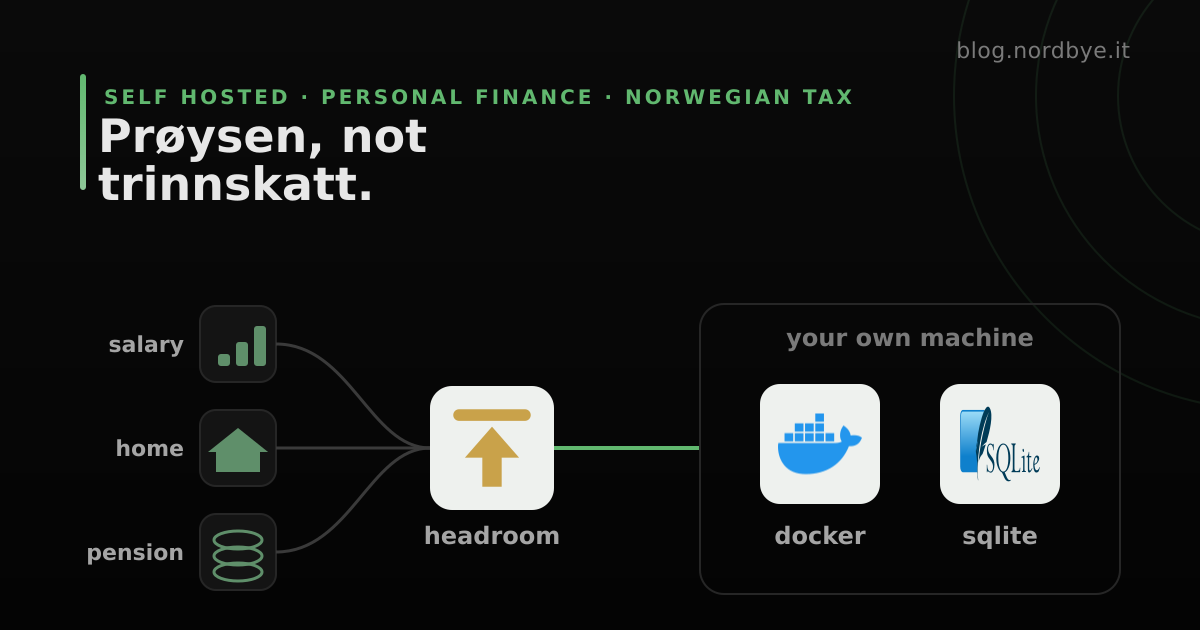
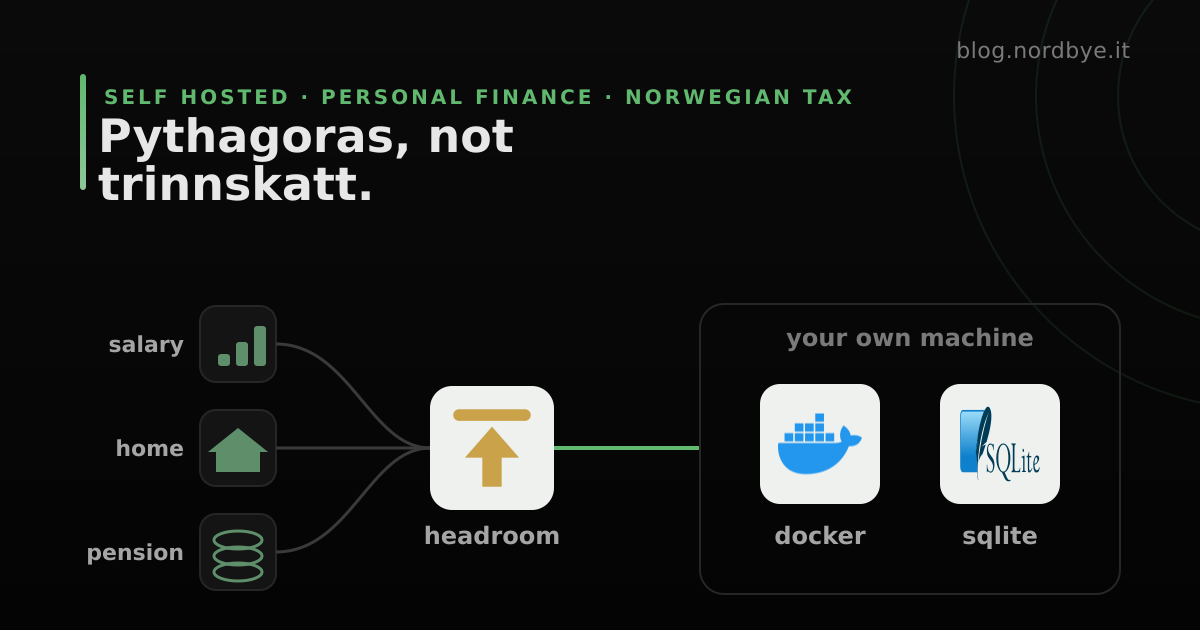
refactor(blog): rework the Headroom post around what the app is for
Rewrite the post so the product sections carry it and the infrastructure
sits in one place at the end.

- Expand the dashboard, salary, employer cost, budget, wealth and forecast
  sections; add the goals card screenshot
- Trim the pension and tax material to a short section
- Tighten the opening joke and swap Prøysen for Pythagoras, in the title
  and the cover art as well
- Move docker run, the demo lockdown, the transaction pipeline, export and
  the operational gotchas under one "Under the Hood" heading
- Drop the Norwegian rules table; the rates in it would go stale
- Say plainly that the public demo is a showroom, not a service
- Note that a non-Norwegian region is a PR away
- Move lonn.webp and prognose.webp to static/images so they render inline

Changed region(s): [[0.0925, 0.181, 0.4317, 0.2714]]

diff --git a/blog/content/blog/headroom/index.md b/blog/content/blog/headroom/index.md
@@ -1,71 +1,98 @@
 ---
-title: "School Taught You Prøysen, Not Trinnskatt: Headroom Does That Maths"
-description: "A self-hosted finance tracker built for Norwegian rules: trinnskatt, feriepenger, BSU, folketrygd, wealth tax and mortgage deduction. One container, live demo."
+title: "School Taught You Pythagoras, Not Trinnskatt: Headroom Does That Maths"
+description: "A self-hosted Norwegian finance tracker: equity after tax, a decade of salary against CPI, what you cost your employer, the month, and a forecast built on both."
 date: 2026-08-04
 draft: false
 tags: ["self-hosted", "docker", "personal-finance", "privacy", "cilium", "kubernetes", "intermediate"]
 ---
 
-# School Taught You Prøysen, Not Trinnskatt: Headroom Does That Maths
+# School Taught You Pythagoras, Not Trinnskatt: Headroom Does That Maths
 
 <img src="/images/headroom-logo.svg" alt="Headroom" title="Headroom" style="width:15%;" />
 
-Norwegian school gave you Alf Prøysen. Musevisa every December, Teskjekjerringa in the reading book, and enough of the melody left to still sing it thirty years later.
+School taught you Pythagoras. You have not used it since.
 
-It did not give you a tax return, a fund, or the sentence you need in a salary review.
+It never taught you how to set up a monthly budget, how to make savings grow, or how to tell debt that is working for you from debt that is not. Nothing about what a raise is worth after inflation, or what you cost the company that pays you.
 
-The apps that offer to fix that want your bank login, a monthly fee, and a copy of your whole financial picture on someone else's server. So I built one that runs on your machine instead.
+The apps that offer to fix that want your bank login, a monthly fee, and a copy of your whole financial picture on someone else's server. So I built one that runs on your own machine.
+
+Headroom answers four questions and not much else. What is actually mine, after tax and after debt. What can I spend today. Is my salary keeping up. And where does all of this end up in fifteen years.
 
 _Drop a ⭐ on [headroom](https://github.com/mortennordbye/headroom) if it is useful. The manifests that run it live in my [Homelab repo](https://github.com/mortennordbye/Homelab)._
 
 {{< github repo="mortennordbye/headroom" >}}
 
-**Click through everything at [headroom.nordbye.it](https://headroom.nordbye.it).** Fictional numbers, no signup, and your edits stay in your own tab.
-
-## Built for Norwegian Money
-
-One container, a SQLite file you own, no account. That part is ordinary. The maths is not.
-
-| The rule | What Headroom does with it |
-| --- | --- |
-| Trinnskatt, personfradrag, trygdeavgift | Your real marginal rate on the next krone |
-| Feriepenger at 12% | Earned this year, paid out next year |
-| Arbeidsgiveravgift at 14.1% | What you actually cost to employ |
-| BSU, 27 500 a year and 300 000 total | Both allowances tracked, and when you stop qualifying |
-| Formuesskatt | Primary home at 25%, funds at 80%, then bunnfradrag |
-| Mortgage interest | 22% back, so the effective rate beats the nominal one |
-| Folketrygd at 18.1% up to 7.1 G | Divided by your cohort's delingstall, garantipensjon as floor |
-
-Each of those is a tested function in [`src/lib/`](https://github.com/mortennordbye/headroom/tree/main/src/lib), not a number typed into a page.
-
-There is an English toggle, a currency setting and a generic region. Here is what generic actually means:
-
-```ts
-if (region === 'no') return calcNorwegianTax(/* brackets, personfradrag, trygdeavgift */);
-const rate = Math.min(100, Math.max(0, customRatePct)) / 100;  // <--- one flat rate you type in
-```
-
-One flat rate. Usable outside Norway, but the pension, holiday pay and property models stay Norwegian whatever you set. This was built for Norwegian money.
+**[headroom.nordbye.it](https://headroom.nordbye.it) is a showroom, not a service.** Click every page and change every number you like. It runs on invented data, nothing you type is saved, and the server refuses every write. Do not put your real finances into it. To actually use Headroom, [run your own copy](#run-it).
 
 ## Why It Is a Container and Not a Subscription
 
 The obvious version of this is a SaaS. Sign up, connect your bank, 79 kroner a month.
 
-I do not want to hold your banking data. A PSD2 transaction feed comes with obligations, and a database of a few thousand people's spending is a target that has to be defended correctly every day for years. I cannot lose data I never had.
+I do not want to hold your banking data. A database of a few thousand people's spending is a target that has to be defended correctly every day for years, and I cannot lose data I never had. So it is one container, a database file you own, and no account.
 
-And the useful parts are arithmetic. Your marginal rate, the inflation floor, what your mortgage payment is made of. Putting a subscription in front of that mostly means the people who need it never see it.
+The other reason is that the useful parts are arithmetic. Your marginal rate, the inflation floor, what your mortgage payment is made of. Putting a subscription in front of that mostly means the people who need it never see it.
+
+## Built for Norwegian Money
+
+Most budgeting apps track spending and stop there. Headroom knows the rules underneath. What trinnskatt does to the next krone you earn, that feriepenger is earned one year and paid the next, that arbeidsgiveravgift is most of why you cost more than your salary, that part of your mortgage interest comes back. Real brackets and real rates, updated when they move.
+
+Set the region to generic and switch the interface to English, and the tax rules collapse to one flat rate you type in yourself. That gets you a working budget, not your own country's rules. If you want those, the seam is there: one fork in the tax calculation, a table of brackets, tests next to the Norwegian ones. Open a PR and start filling in numbers.
 
 ## The Dashboard
 
-Total equity after tax and after all debt, which is the pessimistic number rather than the friendly one.
+What you want from a finance app is money in, money out, what is left standing after both, and whether that is enough for the things you said you wanted. The front page is all four.
 
-<img src="/images/headroom-oversikt.webp" alt="Headroom dashboard showing 1 362 739 kr total equity after tax and debt, remaining monthly budget, daily spending pace and asset allocation" title="Total equity, after tax and after debt" style="width:100%;" />
+<img src="/images/headroom-oversikt.webp" alt="Headroom dashboard showing 1 362 739 kr total equity after tax and debt, a twelve month equity line, remaining monthly budget and daily spending pace" title="Total equity, after tax and after debt" style="width:100%;" />
 
-Student loan is split out from other debt, because it is a different animal. Below that, what you can spend today against the ideal pace, where the month's money went, and a fifteen year projection.
+The big number is equity after tax and after all debt. Student loan is split out from the rest, because it behaves nothing like a credit card, and both versions are on the card. 1 362 739 with it, 1 646 739 without. Pick the one you believe.
+
+Under it, twelve months as a line and the twelve month change as a number. 223 125 kr, which is everything that came in, minus everything that went out, plus whatever the market did.
+
+The right column is the near end of the same question. 14 190 left this month after fixed costs, and 11 352 you can actually spend, which is 366 kr a day. Your line is solid, the ideal pace is dotted, and being above it on the 12th is the only budgeting feedback that arrives early enough to do something about.
+
+Then the goals. A goal is a name, a target amount and a source. Point it at your BSU account, a savings account, the investment portfolio, the buffer or total equity, and it reads the balance itself instead of asking you to keep it updated.
+
+<img src="/images/headroom-mal.webp" alt="Headroom goals card showing three savings goals at 60, 27 and 70 percent, each with its source, the amount remaining and the month it reaches the target at the current pace" title="Three goals, and when each one lands" style="width:100%;" />
+
+What makes it more than a progress bar is the line underneath. The buffer goal is at 60% and reaches 100 000 in March 2032 at the rate it is actually growing. Give a goal a deadline and that line turns into how many months ahead or behind you are, and what the monthly amount would have to be to land on the date. Stop paying into it and it says there has been no progress in recent months, which is the sentence you were avoiding.
+
+The same idea runs across the top of the page for the plans you never named as goals. One month ahead on the mortgage. 12 251 kr ahead on the rest of the debt.
 
 <img src="/images/headroom-fordeling.webp" alt="Headroom dashboard lower half showing budget distribution, wealth allocation across six assets, monthly investment, top categories and a twelve month cash flow chart" title="Budget split, asset allocation and cash flow" style="width:100%;" />
 
-## The Raise That Is Actually a Pay Cut
+Below that the month is split three ways. 67.6% fixed, 3.1% spent so far, 29.2% still yours. The income line reads 43 840 against a 47 721 average, so this month is 8.1% light before you have done anything wrong.
+
+Next to it, where the equity actually sits. 72% of it is house. That one percentage is the argument for reading this page instead of a bank balance, because a net worth made almost entirely of one illiquid asset behaves nothing like the same number held in funds.
+
+Two more tiles do work that budgeting apps usually skip. Emergency fund coverage counts your buffer in months of fixed expenses and says what to set aside monthly to reach the target within a year. Debt-to-income puts total debt against gross salary and shows the headroom to the 5x cap, which is the number that decides how short the next conversation at the bank is.
+
+The cash flow chart is twelve months of in against out. Two bars a month, and a line for what survived.
+
+## Your Career, Written Down
+
+Nobody remembers what they earned in 2019. Ask three people what their raise was two jobs ago and you get three shrugs. That is exactly the information you are missing in February when someone across a table asks what you had in mind.
+
+<img src="/images/headroom-lonn.webp" alt="Headroom salary page showing 768 000 kr total annual gross at 10 percent above the national median, 68.8 percent cumulative growth since 2015, 3.9 percent year over year against 2.7 percent CPI, and a 416 kr effective hourly rate" title="Pay over time" style="width:100%;" />
+
+The salary page is a log you keep for a decade. Jobs with employer, role, start and end date and contracted hours. Salary changes with an effective date and a type, so an initial, a raise, a promotion, a job change and an adjustment are not the same event. Bonuses, overtime and the hours you actually worked go in as separate entries, because a year where you got 3% and worked 15% more is not a good year.
+
+Four numbers sit at the top. Total annual gross, which is base plus on-call rather than the figure on the contract. Cumulative growth since your first entry. This year against CPI. And effective hourly, which is gross divided by the hours you actually worked.
+
+In the demo that reads 768 000, up 68.8% since February 2015, 3.9% this year against 2.7% inflation, and 416 kr an hour on 39.5 hours a week. The badge next to it says ten percent above the national median for the occupation, from SSB's wage statistics.
+
+Then the charts, which is where ten years of entries turn into an argument.
+
+Salary over time puts a marker on every change, so a flat three-year stretch is something you can see instead of something you half remember. One bar per year for growth against CPI, green when you beat it. Total comp stacked by year, so the year the bonus vanished but the base moved is not filed as the same year both moved. And hours against hourly rate, which is the chart that catches a promotion that was really a workload increase.
+
+Effective hourly is the one that stings. A 5% raise that arrives with four extra hours a week is a pay cut per hour, and nothing on your payslip will tell you.
+
+There is also a calculator that divides your salary down to the year, month, week, day, hour, minute and second. 0,106 kr per second. Useless, and I look at it anyway.
+
+<img src="/images/headroom-pengestrom.webp" alt="Headroom salary page showing a cash flow diagram from gross to tax, fixed expenses, free spending and savings, with a 43 percent marginal rate" title="Where the month's salary goes" style="width:100%;" />
+
+The same page traces one month from gross to what is genuinely free, with the marginal rate on the next krone in the corner. 43% is what an extra shift is really worth.
+
+### The Raise That Is Actually a Pay Cut
 
 If you open one page in the demo, open this one.
 
@@ -73,39 +100,83 @@ A raise below inflation is not a raise. It is a pay cut delivered as good news, 
 
 <img src="/images/headroom-forhandling.webp" alt="Headroom salary negotiation view with a 744 000 kr base, a 748 368 kr inflation floor and a gradient bar from lose purchasing power to real raise" title="The inflation floor" style="width:100%;" />
 
-Your salary was set in February at 744 000. SSB says prices moved 0.6% since. The offer has to clear **748 368** before you have gained anything.
+Your salary was set in February at 744 000. SSB says prices moved 0.6% since. The offer has to clear **748 368** before you have gained anything. Type the offer in, as kroner or as a percentage, and the bar tells you which of three things you just accepted.
 
-Type the offer in and the bar tells you which of three things you just accepted. That is the whole feature, and it is the one I would keep if I deleted every other page.
+That is the floor, not the ask. What you take into the meeting is the rest of the page: growth against CPI for every year you have logged, where you sit against the national median, and what your effective hourly rate did while your title changed twice.
 
-## Where the Salary Goes
+The alternative is arguing from memory against someone who has the numbers in front of them.
 
-<img src="/images/headroom-pengestrom.webp" alt="Headroom salary page showing a cash flow diagram from gross to tax, fixed expenses, free spending and savings, a 43 percent marginal rate, and withheld versus expected tax" title="Gross to net, and an early restskatt warning" style="width:100%;" />
+## What You Cost
 
-Gross, tax, fixed costs, what is actually free. Marginal rate on the next krone in the corner, which is what an extra shift is really worth.
+This is the page nobody asks for and everybody reads twice.
 
-Underneath, tax withheld so far this year against what this year should be taxed. Rough on purpose, but it is the difference between hearing about restskatt now and hearing about it from Skatteetaten.
+<img src="/images/headroom-lonnskostnad.webp" alt="Headroom employer cost page building 768 000 kr salary up to 1 115 257 kr total, then deriving 1 560 billable hours, a 714,91 kr cover rate and a 1 021,30 kr target rate" title="Salary 768 000. Cost 1 115 257." style="width:100%;" />
+
+Your contract says 768 000. Feriepenger goes on top, then employer OTP, then arbeidsgiveravgift at 14.1% on that whole base, then a desk, a laptop, licences and insurance. Total 1 115 257. A 45.2% uplift on the number you negotiated, which is worth knowing before you ask for 30 000 more, because you are asking for 43 000.
+
+The lower half is the part I keep coming back to. 1 950 working hours in a year, 80% of them billable, so 1 560 hours are actually sellable. Divide the cost by those and you get **714,91 kr/t**, the rate where your employer breaks exactly even on you. Add a 30% target margin and it becomes **1 021,30 kr/t**, or 7 659 kr a day.
+
+So now you have both ends of your own payslip. What it costs to produce, and what someone has to charge for your time before the arrangement makes money. Spread the cost over every worked hour and it is 572 kr. Spread it over the billable ones and it is 715, and those 143 kroner of difference are nothing but the 390 hours a year nobody is invoiced for.
+
+That calculation is also the one freelancers get wrong exactly once.
 
 ## The Month
 
 <img src="/images/headroom-budsjett.webp" alt="Headroom budget page for August 2026 with monthly income, budget per month and per day, fixed expenses, an imported payslip and the spend and invest split" title="One month at a time" style="width:100%;" />
 
-Income is typed or imported from a payslip PDF. The parser runs in your browser and never uploads the file.
+Income at the top, either typed, derived automatically from your salary entries, or lifted out of a payslip PDF. The PDF is read in your browser and never uploaded. In the demo it picked up 43 840 net, 64 000 gross, 20 160 withheld and 7 680 of holiday pay accrued, straight off the document.
 
-Then it works out what you can spend _today_, not this month. Fixed costs off, savings target off, remainder divided by days left.
+From there, three numbers. Fixed costs of 29 650. What is spendable this month, 11 352. And what that is per day, 366 kr. Per day is the one you use, because "you have 11 000 left" on the 3rd and on the 27th are different sentences.
+
+The split is a target, not a leftover. Set 20% and the recommendation reserves 2 838 for investment first, then tells you what is spendable. Saving whatever happens to survive the month is how people save nothing.
 
 <img src="/images/headroom-utgifter.webp" alt="Headroom fixed expenses panel warning about double counting, offering to promote four detected recurring payments, and a chart of where the fixed money goes" title="It notices the subscription you forgot" style="width:100%;" />
 
-Two things here earn their place. It spots a fixed expense and a matching transaction and offers to link them, so a bill is not counted twice. And it finds repeated payments and offers to promote them, which is how the forgotten subscription surfaces.
+Two things earn their place. It spots a fixed expense and a matching transaction and offers to link them, so a bill is not counted twice. And it finds repeated payments and offers to promote them, which is how the forgotten subscription surfaces.
+
+Transactions get a rules engine behind them. Rename one or fix its category, tick "remember", and every matching transaction in every month gets the same treatment, retroactively. Twenty minutes once, then categories stop being a chore.
+
+The one I did not expect to need is transfer detection. Moving 10 000 to your own savings account is not spending, but a bank feed cannot tell, and counting it ruins both the budget and the savings rate. Headroom flags the transactions that look like internal moves, on round amounts, account numbers in the text and monthly repetition, and offers to turn each into a rule.
+
+It also warns about the way that goes wrong. Net out a credit card bill without importing the card's own transactions and everything you spent on that card disappears from the budget entirely.
+
+Under all that: spend per account per month, search across every transaction you have, bulk recategorisation, and a nudge when the savings rate has been under target for a few months running.
 
 ## What You Are Worth After Tax
 
-A portfolio of 285 000 with 62 000 of gain is not worth 285 000. Sell it and 37.84% of the gain goes to tax.
+A portfolio of 285 000 with 62 000 of unrealised gain is not worth 285 000. Sell it and 37.84% of the gain goes to tax, so the honest figure is 261 539.
 
 <img src="/images/headroom-formue.webp" alt="Headroom wealth page showing latent tax deducted from an investment portfolio, home equity, pension balances, BSU allowances and crypto" title="Latent tax, deducted" style="width:100%;" />
 
-So the app deducts the latent tax and shows the net position. Unpopular way to display a portfolio. Correct one.
+So the page deducts it and shows the net position. Crypto gets the same treatment at 22%. Unpopular way to display a portfolio. Correct one.
 
-The rest is the balance sheet: property against mortgage, OTP and IPS held separately because they are locked, savings and buffer accounts, and credit frames counted at their full limit the way a bank counts them.
+The rest is a balance sheet with the parts held apart on purpose.
+
+Property is value against mortgage. 4 200 000 less 2 950 000 leaves 1 250 000 of equity. That is 72% of the total, and none of it is spendable.
+
+Liquidity is what you can reach this week. Savings, holiday account, buffer, and BSU with both allowances tracked, 27 500 of room this year and 267 000 of lifetime room left.
+
+Pension sits in its own box and stays out of liquid equity. OTP and IPS are real money, and they are not your money yet.
+
+Credit frames count at their full limit rather than their balance, the way a bank counts them. An unused 100 000 card is 100 000 of debt in that conversation, whatever your statement says.
+
+Under the balance sheet, the same assets projected to now, to five years out and to fifteen. Each class grows at its own rate rather than one blended number smeared over everything, and the monthly savings from your budget flow into stocks. Which is where the wealth page and the budget page stop being separate pages.
+
+## The Forecast
+
+Everything above feeds this one. Wealth is the opening balance, the budget supplies the monthly contribution, and the salary page supplies the raise assumption. Five sliders decide the rest: annual raise, share of net income saved, expected real return, expected inflation, and how far out to look.
+
+<img src="/images/headroom-prognose.webp" alt="Headroom forecast comparing 5 000 kr a month prepaid against invested over fifteen years, and a net worth projection to 2041 with nominal, today's kroner and an uncertainty band" title="Two assumptions, fifteen years apart" style="width:100%;" />
+
+The chart draws two lines and a band. Nominal, which is the impressive one. The same figure in today's kroner, which is the one that means something. And the band sits at plus or minus three points of return, because a single confident line fifteen years out is a lie told with a chart library.
+
+Two panels do the arguing.
+
+Prepay against invest takes an extra amount per month and runs it both ways. 5 000 a month against a 4.3% effective mortgage rate after the deduction, versus 7% expected return. Investing ends 324 745 ahead after fifteen years. Drag the expected return under the effective mortgage rate and the answer flips, which is the useful part. You get to see how much of the advice you have been given rests on an assumption nobody said out loud.
+
+Financial independence puts the projection against 25 times your essential annual spending and gives the year it crosses. Essential spending comes from your own fixed expenses, so it is your number rather than a blog's.
+
+And scenario compare runs two sets of assumptions side by side and prints the difference at the end. Model 4% raises instead of 2% and read what fifteen years of the difference is worth. That is a better reason to prepare for February than any of the ones you rehearsed.
 
 ## One Home, One Loan
 
@@ -147,36 +218,51 @@ Thinking about a second home? It tells you what the bank will say.
 
 Income times five against all debt, with credit frames at their full limit and the cash you need at completion. In the demo that comes back **over capacity** and **629 046 kr short**. Better to learn that here than in a meeting.
 
-## What You Cost
-
-<img src="/images/headroom-lonnskostnad.webp" alt="Headroom employer cost page building 768 000 kr salary up to 1 115 257 kr total, and calculating a consultant hourly rate" title="Salary 768 000. Cost 1 115 257." style="width:100%;" />
-
-Salary, plus feriepenger, plus employer OTP, then arbeidsgiveravgift on that base, plus a desk and a laptop. A 45.2% uplift on the contract figure.
-
-Then it turns that into a consultant rate: 714,91 kr/t merely covers you, 1 021,30 kr/t hits the margin. That gap is the calculation freelancers get wrong exactly once.
-
-## Pension, Forecast, and the Year
+## Pension and the Year
 
 {{< carousel >}}
 {{< figure src="pensjon.webp" alt="Headroom pension page combining folketrygd, AFP, OTP and IPS into 57 100 kr net per month" >}}
-{{< figure src="prognose.webp" alt="Headroom forecast comparing paying down the mortgage against investing, with a net worth projection and uncertainty band" >}}
 {{< figure src="ar.webp" alt="Headroom year summary with income, tax paid, savings rate and a month by month table" >}}
-{{< figure src="lonn.webp" alt="Headroom salary page with total annual salary, growth against CPI and effective hourly wage" >}}
 {{< /carousel >}}
 
-Pension combines folketrygd, AFP, OTP and IPS into one number: what lands per month after tax, and what share of today's take-home that is.
-
-Forecast is where you argue with your assumptions, with an uncertainty band at plus or minus three points of return, because a single confident line fifteen years out is a lie told with a chart library. It also settles prepay against invest at the effective post-deduction rate.
-
-The year page prints to PDF, which is what people actually want once a year.
+Pension folds folketrygd, AFP, OTP and IPS into one figure, what lands per month after tax and what share of today's take-home that is. The year page prints to PDF, which is what people want from it once a year.
 
 ## It Works on a Phone
 
 <img src="/images/headroom-mobil.webp" alt="Headroom on a phone showing a two by two grid of monthly figures, an imported payslip card and a bottom tab bar" title="Installable as a PWA" style="width:35%;" />
 
-Full mobile layout, installable as a PWA with its own icon. Behind Tailscale that is a budgeting app on your phone that never leaves your network.
+Full mobile layout, installable with its own icon. Behind Tailscale that is a budgeting app on your phone that never leaves your network.
 
-## Where the Transactions Come From
+## Under the Hood
+
+If you came for what it does, you can stop here. The rest is how it runs, for the people who want that part.
+
+### Run It
+
+One command. No clone, no build, no config file.
+
+```bash
+docker run -d \
+  --name headroom \
+  -p 127.0.0.1:8080:3001 \
+  -v headroom_data:/data \
+  --restart unless-stopped \
+  ghcr.io/mortennordbye/headroom:latest
+```
+
+Open <http://localhost:8080>. The `127.0.0.1` binds it to loopback so nothing else on your network can reach it, and the volume survives restarts and upgrades.
+
+### There Is No Login
+
+{{< alert type="warning" >}}
+Anyone who can reach the port can read and overwrite your entire financial picture. Do not put this on the open internet.
+{{< /alert >}}
+
+Two safe shapes. Loopback on a laptop, which is the default. Or a home server reached over WireGuard or Tailscale, which is also what makes the phone work.
+
+Want it in a browser without a tunnel? Put a reverse proxy with authentication in front. There is an optional scrypt-hashed password and an `ALLOWED_HOSTS` guard against DNS rebinding, but treat both as depth, not as the front door.
+
+### Where the Transactions Come From
 
 Type them, or connect a bank through [Enable Banking](https://enablebanking.com/). A fetch reaches back about 90 days, but nothing is ever dropped, so your history keeps growing on your own disk.
 
@@ -198,7 +284,9 @@ Money between your own accounts is not spending, and counting it is the fastest 
 {{< /timelineItem >}}
 {{< /timeline >}}
 
-## Your Data Stays Yours
+Every rule in the table further up is a tested function in [`src/lib/`](https://github.com/mortennordbye/headroom/tree/main/src/lib) with its own test file next to it, which is the only reason I trust the numbers on the wealth page.
+
+### Your Data Stays Yours
 
 <img src="/images/headroom-eksport.webp" alt="Headroom settings listing all 342 entries included in an export, and one click configuration for Claude, Cursor, Codex and Gemini" title="Export lists exactly what it takes" style="width:100%;" />
 
@@ -212,34 +300,9 @@ Same screen wires up an AI assistant. The [MCP server](https://github.com/morten
 make mcp-install
 ```
 
-## Run It
+### How the Public Demo Is Locked Down
 
-One command. No clone, no build, no config file.
-
-```bash
-docker run -d \
-  --name headroom \
-  -p 127.0.0.1:8080:3001 \
-  -v headroom_data:/data \
-  --restart unless-stopped \
-  ghcr.io/mortennordbye/headroom:latest
-```
-
-Open <http://localhost:8080>. The `127.0.0.1` binds it to loopback so nothing else on your network can reach it, and the volume survives restarts and upgrades.
-
-## There Is No Login
-
-{{< alert type="warning" >}}
-Anyone who can reach the port can read and overwrite your entire financial picture. Do not put this on the open internet.
-{{< /alert >}}
-
-Two safe shapes. Loopback on a laptop, which is the default. Or a home server reached over WireGuard or Tailscale, which is also what makes the phone work.
-
-Want it in a browser without a tunnel? Put a reverse proxy with authentication in front. There is an optional scrypt-hashed password and an `ALLOWED_HOSTS` guard against DNS rebinding, but treat both as depth, not as the front door.
-
-## How the Public Demo Is Locked Down
-
-Which is an obvious contradiction, since there is an instance of it on the public internet.
+There is no login, and yet there is an instance of it on the public internet. That only works because the public one is not really the app.
 
 `DEMO_MODE=1` refuses every non-GET under `/api/`, refuses the whole `/api/bank/*` namespace (its GETs are not safe reads, one proxies to Enable Banking on the instance's own credentials), fills the client from a browser-generated dataset, and skips the background jobs. Enforced in [`server/demo.js`](https://github.com/mortennordbye/headroom/blob/main/server/demo.js), server-side.
 
@@ -266,15 +329,23 @@ The important part is what is missing. Writing any egress rule makes egress deny
 
 A regression in the demo gate alone cannot reach a bank, because the packet has nowhere to go. Two mechanisms in two systems both have to fail.
 
-## Common Mistakes to Avoid
+### Common Mistakes to Avoid
 
-**Pointing a demo instance at your real volume.** `DEMO_MODE` protects writes. `GET /api/data` still serves your finances to the internet. Separate instance, empty storage.
+**Pointing a demo instance at your real volume**
 
-**Assuming an update failed because nothing changed.** It is a PWA and caches itself. Accept the prompt or hard-reload. The data is fine; it just looks like a broken deploy.
+`DEMO_MODE` protects writes. `GET /api/data` still serves your finances to the internet. Separate instance, empty storage.
 
-**Setting `runAsUser` on the pod.** The entrypoint starts as root, fixes `/data` ownership, then drops to uid 1000. Starting non-root removes its ability to chown at all. Use `fsGroup`.
+**Assuming an update failed because nothing changed**
 
-**Treating a lagging public series as missing data.** SSB publishes CPI with a lag. Reading that as "no data" hid a working feature for a month. Decide what a normal lag looks like, and keep it off the same code path as a real failure.
+It is a PWA and caches itself. Accept the prompt or hard-reload. The data is fine; it just looks like a broken deploy.
+
+**Setting `runAsUser` on the pod**
+
+The entrypoint starts as root, fixes `/data` ownership, then drops to uid 1000. Starting non-root removes its ability to chown at all. Use `fsGroup`.
+
+**Treating a lagging public series as missing data**
+
+SSB publishes CPI with a lag. Reading that as "no data" hid a working feature for a month. Decide what a normal lag looks like, and keep it off the same code path as a real failure.
 
 ## What's Next?
 
@@ -282,8 +353,8 @@ Payslip parsing beyond Visma, which needs one function per provider and a sample
 
 ## Final Thoughts
 
-Plenty of budgeting apps exist. What keeps me on this one is that the understanding is worth more than the features. Knowing your marginal rate changes what an extra shift is worth. Knowing the inflation floor changes what you say in February. Knowing that 13 521 of 18 166 is interest changes how you feel about paying extra.
+Plenty of budgeting apps exist. What keeps me on this one is that the understanding is worth more than the features. Knowing what a decade of your own raises did against CPI changes what you say in February. Knowing that 1 560 of your 1 950 hours are the billable ones changes how you read a rate. Knowing that 13 521 of an 18 166 payment is interest changes how you feel about paying extra.
 
 None of that needs my app. It needs the numbers in front of you often enough that you stop guessing, and it should not cost a subscription to get there.
 
-Headroom does the tax maths. You are still on your own for Musevisa.
+Headroom does the maths school skipped. The hypotenuse is still your problem.
